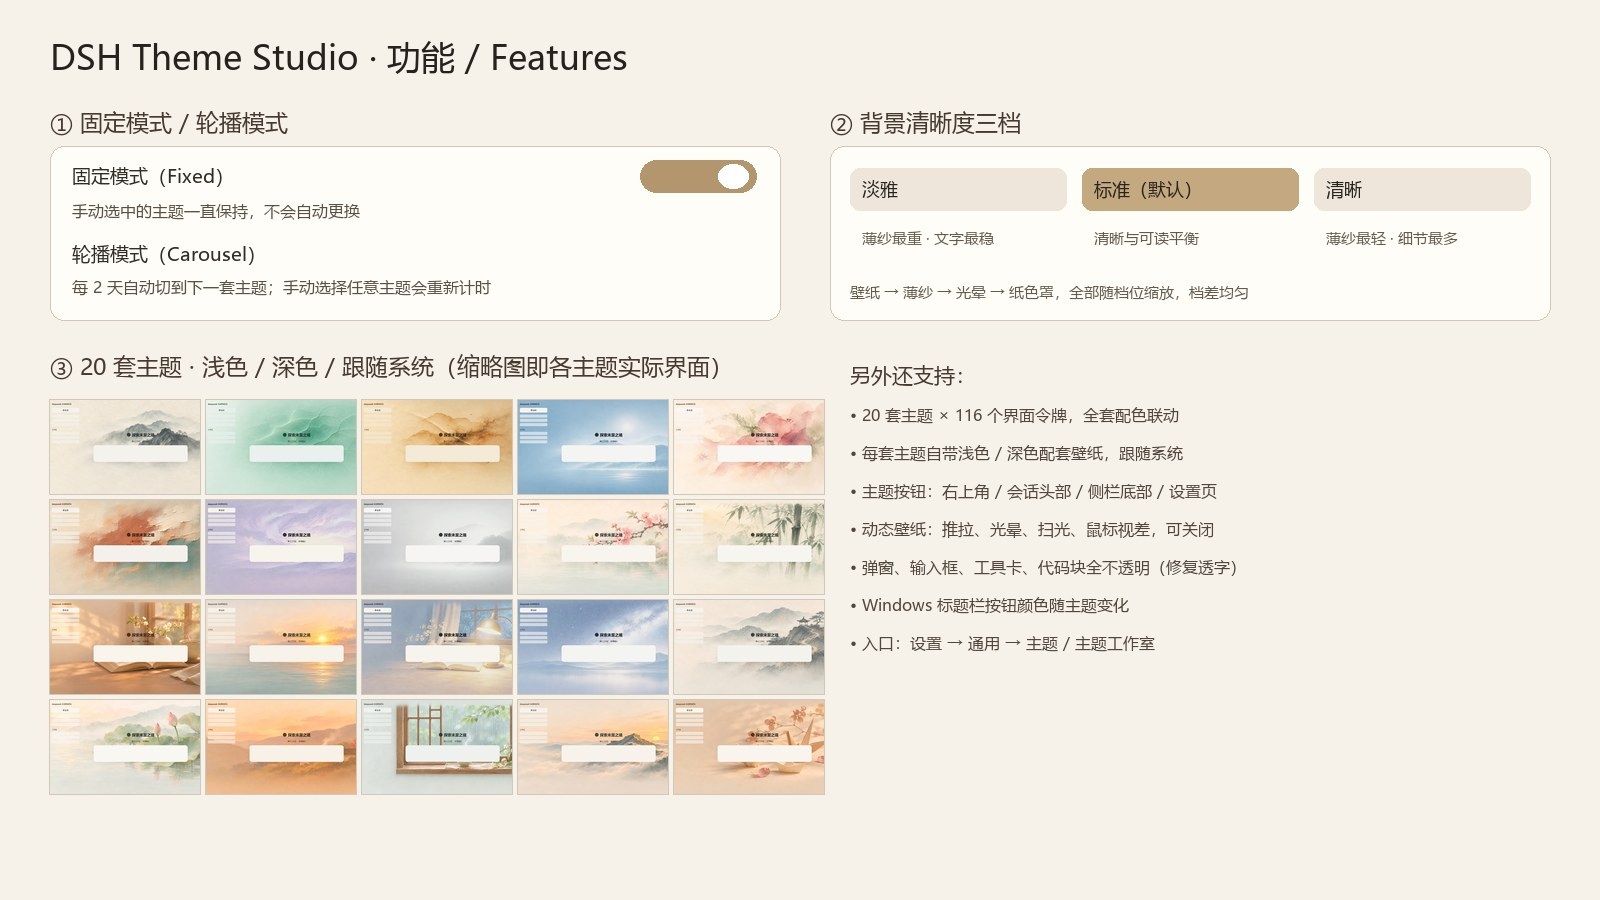
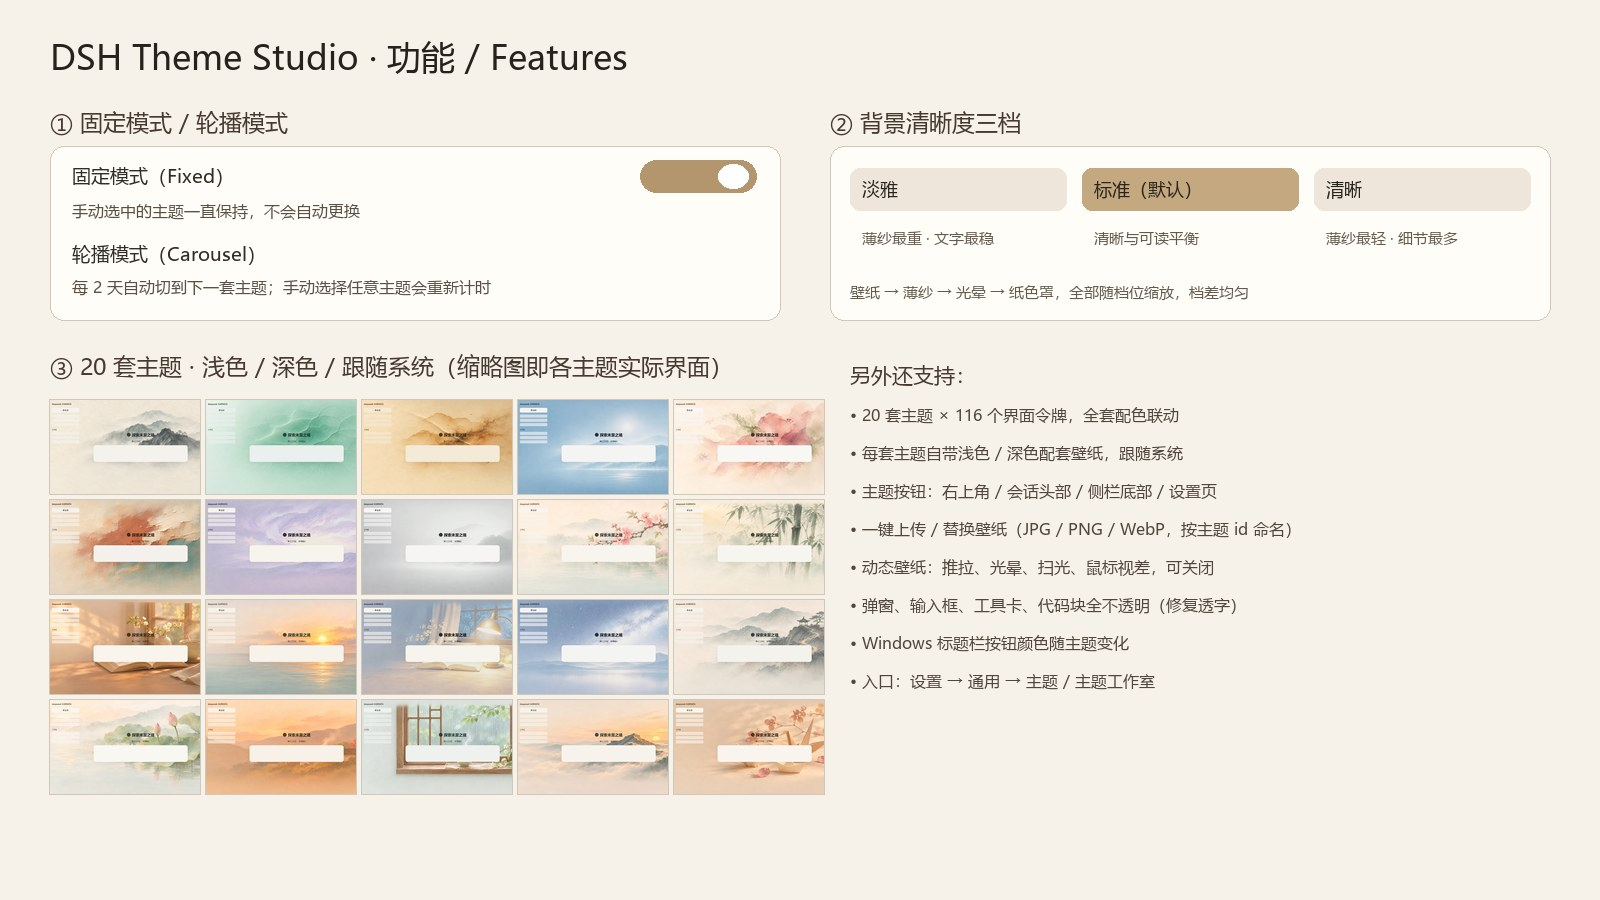
feat: 1.4.0 wallpaper detection copy + upload/replace wallpapers

Changed region(s): [[0.5312, 0.56, 0.8125, 0.7778]]

diff --git a/client.js b/client.js
@@ -84,7 +84,7 @@ window.__ModuleLoader__.load({
       const STORAGE_KEY = 'dsh-theme-studio/v5';
       const WALLPAPER_THEMES = 6;
       /** Reported by the diagnostics UI probe so a loaded build is identifiable. */
-      const BUILD = '1.3.9+panel-buttons';
+      const BUILD = '1.4.0+wallpaper-upload';
 
     /* ------------------------------------------------------------------ *
      * Colour helpers
@@ -1189,7 +1189,10 @@ html[data-theme-studio="${family.id}"] body[data-ds-dark-theme] {
 .ts-foot { display: flex; flex-direction: column; gap: 8px; padding-top: 12px; border-top: 0.5px solid var(--dsw-alias-border-l1); font-size: 11px; line-height: 17px; color: var(--dsw-alias-label-tertiary); }
 .ts-path { display: block; padding: 6px 8px; border: 0.5px solid var(--dsw-alias-border-l1); border-radius: 8px; background: var(--dsw-alias-bg-layer-2); color: var(--dsw-alias-label-secondary); font-family: var(--ds-font-family-code); font-size: 11px; line-height: 16px; word-break: break-all; }
 .ts-footRow { display: flex; align-items: center; gap: 8px; flex-wrap: wrap; }
-.ts-linkBtn { border: 0; background: transparent; padding: 0; color: var(--dsw-alias-brand-primary); font: inherit; font-size: 11px; cursor: pointer; text-decoration: underline; text-underline-offset: 2px; }
+.ts-linkBtn:hover { background: var(--dsw-alias-interactive-bg-hover); color: var(--dsw-alias-label-primary); border-color: var(--dsw-alias-border-l3); }
+.ts-uploadBtn { color: var(--dsw-alias-label-primary); font-weight: 500; }
+.ts-uploadNote { font-size: 11px; line-height: 16px; color: var(--dsw-alias-brand-primary); }
+.ts-linkBtn { display: inline-flex; align-items: center; gap: 5px; border: 0.5px solid var(--dsw-alias-border-l2); border-radius: 999px; padding: 3px 10px; background: var(--dsw-alias-bg-layer-2); color: var(--dsw-alias-label-secondary); font: inherit; font-size: 11px; line-height: 16px; cursor: pointer; text-decoration: none; transition: background 0.15s ease, color 0.15s ease, border-color 0.15s ease; }
 .ts-badge { display: inline-flex; align-items: center; padding: 1px 7px; border-radius: 999px; background: var(--dsw-alias-bg-layer-3); border: 0.5px solid var(--dsw-alias-border-l1); color: var(--dsw-alias-label-secondary); font-size: 10px; line-height: 16px; }
 .ts-quick { display: flex; flex-direction: column; gap: 8px; padding: 14px 0; border-bottom: 0.5px solid var(--dsw-alias-border-l2); }
 .ts-quickHead { display: flex; align-items: baseline; gap: 10px; flex-wrap: wrap; }
@@ -1417,11 +1420,17 @@ ${PAGE_CSS}`;
         off: '关',
         schemeLight: '当前：浅色',
         schemeDark: '当前：深色',
-        wallpaperFound: '已检测到 {n} 张壁纸',
+        wallpaperFound: '已检测到 {n} 套主题壁纸',
+        wallpaperFoundHint: '扫描壁纸目录得到的可用背景图数量；点「刷新壁纸」可重新扫描',
         wallpaperNone: '尚未放入壁纸，正在使用内置渐变艺术',
         pathTitle: '壁纸目录',
-        pathHint: '把 GPT 生成的图片命名为 <主题 id>.jpg（或 .png / .webp）放入该目录，刷新后即可生效。',
-        refresh: '重新检测',
+        pathHint: '支持自定义背景图：把图片命名为 <主题 id>.jpg / .png / .webp（配套图用 <id>-dark / <id>-light）放进壁纸目录，或点「上传/替换壁纸」。',
+        refresh: '刷新壁纸',
+        uploadWallpaper: '上传 / 替换壁纸',
+        uploadBadName: '文件名需带主题 id，例如 ink-mist.jpg 或 ink-mist-dark.jpg',
+        uploadTooLarge: '图片过大：上限 30 MB',
+        uploadOk: '已更新 {name}，正在刷新预览…',
+        uploadFail: '上传失败：{msg}',
         footerNote: '主题只覆盖颜色与材质令牌，不改动任何功能；关闭本页或恢复默认即可回到原生外观。',
       },
       en: {
@@ -1455,11 +1464,17 @@ ${PAGE_CSS}`;
         off: 'Off',
         schemeLight: 'Now: light',
         schemeDark: 'Now: dark',
-        wallpaperFound: '{n} wallpaper(s) detected',
+        wallpaperFound: '{n} theme wallpaper(s) detected',
+        wallpaperFoundHint: 'Number of background images found by scanning the wallpaper folder; click Refresh to rescan',
         wallpaperNone: 'No wallpaper yet — using the built-in gradient art',
         pathTitle: 'Wallpaper folder',
-        pathHint: 'Name GPT output <theme-id>.jpg (or .png / .webp), drop it in this folder, then refresh.',
-        refresh: 'Rescan',
+        pathHint: 'Custom wallpapers: name the image <theme-id>.jpg / .png / .webp (companions <id>-dark / <id>-light), drop it in this folder, or click Upload / Replace.',
+        refresh: 'Refresh wallpapers',
+        uploadWallpaper: 'Upload / replace wallpaper',
+        uploadBadName: 'The file name needs a theme id, e.g. ink-mist.jpg or ink-mist-dark.jpg',
+        uploadTooLarge: 'Image is too large (max 30 MB)',
+        uploadOk: 'Updated {name}, refreshing preview…',
+        uploadFail: 'Upload failed: {msg}',
         footerNote: 'Themes only override color and material tokens; every feature stays untouched. Restore the default look to go back.',
       },
     };
@@ -1864,6 +1879,41 @@ ${PAGE_CSS}`;
       const t = (key) => UI.t(key);
       const families = state.families;
       const count = state.wallpaperCount;
+      const [uploadNote, setUploadNote] = React.useState('');
+      const pickWallpaper = () => {
+        if (typeof document === 'undefined') return;
+        const input = document.getElementById('ts-wallpaper-upload');
+        if (input) input.click();
+      };
+      const onWallpaperPicked = async (event) => {
+        const input = event && event.target;
+        const file = input && input.files && input.files[0];
+        if (!file) return;
+        const name = String(file.name || '').toLowerCase();
+        if (!/^[a-z0-9][a-z0-9-]{0,60}(?:-(?:dark|light))?\.(?:jpg|jpeg|png|webp|avif)$/.test(name)) {
+          setUploadNote(t('uploadBadName'));
+          return;
+        }
+        if (file.size > 30 * 1024 * 1024) {
+          setUploadNote(t('uploadTooLarge'));
+          return;
+        }
+        try {
+          const response = await fetch(`${ROUTE}/upload?name=${encodeURIComponent(name)}`, {
+            method: 'POST',
+            headers: { 'content-type': file.type || 'image/jpeg' },
+            body: file,
+          });
+          const data = await response.json().catch(() => ({}));
+          if (!response.ok) throw new Error(data && data.error ? data.error : 'HTTP ' + response.status);
+          setUploadNote(t('uploadOk').replace('{name}', name));
+          UI.actions.refreshWallpapers();
+        } catch (error) {
+          setUploadNote(t('uploadFail').replace('{msg}', String(error && error.message ? error.message : error)));
+        } finally {
+          if (input) input.value = '';
+        }
+      };
       return h(
         'div',
         { className: 'ts-page' },
@@ -1930,11 +1980,20 @@ ${PAGE_CSS}`;
           h(
             'div',
             { className: 'ts-footRow' },
-            h('span', { className: 'ts-badge' }, count > 0 ? t('wallpaperFound').replace('{n}', String(count)) : t('wallpaperNone')),
+            h('span', { className: 'ts-badge', title: t('wallpaperFoundHint') }, count > 0 ? t('wallpaperFound').replace('{n}', String(count)) : t('wallpaperNone')),
             state.manifest && state.manifest.directory ? h('button', { type: 'button', className: 'ts-linkBtn', onClick: () => UI.actions.refreshWallpapers() }, t('refresh')) : null,
+            state.manifest && state.manifest.directory ? h('button', { type: 'button', className: 'ts-linkBtn ts-uploadBtn', onClick: pickWallpaper }, t('uploadWallpaper')) : null,
+            h('input', {
+              id: 'ts-wallpaper-upload',
+              type: 'file',
+              accept: 'image/jpeg,image/png,image/webp,image/avif',
+              style: { display: 'none' },
+              onChange: onWallpaperPicked,
+            }),
           ),
-          state.manifest && state.manifest.directory ? h('span', { className: 'ts-path' }, state.manifest.directory) : null,
+          state.manifest && state.manifest.directory ? h('span', { className: 'ts-path', title: t('pathTitle') }, state.manifest.directory) : null,
           h('div', null, t('pathHint')),
+          uploadNote ? h('div', { className: 'ts-uploadNote' }, uploadNote) : null,
           h('div', null, t('footerNote')),
         ),
       );
@@ -2492,6 +2551,9 @@ ${PAGE_CSS}`;
           workspaceChip: workspaceChipProbe(),
           themeNeighbors: themeNeighborProbe(),
           themeHead: probeStyle('.ts-headBtn'),
+          uploadButtonText: (() => { const node = document.querySelector('.ts-uploadBtn'); return node ? String(node.textContent || '').trim() : null; })(),
+          wallpaperBadgeText: (() => { const node = document.querySelector('.ts-badge'); return node ? String(node.textContent || '').trim() : null; })(),
+          wallpaperHintText: (() => { const node = document.querySelector('.ts-foot'); return node ? String(node.innerText || '').replace(/\s+/g, ' ').slice(0, 240) : null; })(),
           sidebarCandidates: [...document.querySelectorAll('*')].filter((node) => typeof node.className === 'string' && /sidebar/i.test(node.className)).slice(0, 6).map((node) => { const style = getComputedStyle(node); const rect = node.getBoundingClientRect(); return { cls: String(node.className).slice(0, 90), bg: style.backgroundColor, w: Math.round(rect.width), h: Math.round(rect.height), x: Math.round(rect.x) }; }),
           mainSurface: (() => { const node = document.querySelector('[data-conversation-root], [class*="scrollBody"], [class*="centerCol"], main'); if (!node) return null; const style = getComputedStyle(node); return { cls: String(node.className || '').slice(0, 90), bg: style.backgroundColor }; })(),
           themeFab: probeStyle('.ts-fabBtn'),

diff --git a/index.js b/index.js
@@ -24,7 +24,7 @@
  * @module dsh-theme-studio
  */
 import { existsSync } from 'node:fs';
-import { readFile, readdir, stat, writeFile } from 'node:fs/promises';
+import { mkdir, readFile, readdir, stat, writeFile } from 'node:fs/promises';
 import { dirname, extname, join, normalize, resolve, sep } from 'node:path';
 import { fileURLToPath } from 'node:url';
 
@@ -34,6 +34,10 @@ const SENTINEL = join(HERE, 'enable-diagnostics');
 const DIAG_FILE = join(HERE, 'theme-studio-diagnostics.json');
 const ROUTE = '/theme-studio';
 const MAX_DIAG_BYTES = 2 * 1024 * 1024;
+const MAX_WALLPAPER_BYTES = 30 * 1024 * 1024;
+
+/** Custom wallpaper file name: `<theme-id>[-dark|-light].(jpg|png|webp|avif)`. */
+const WALLPAPER_NAME_RE = /^[a-z0-9][a-z0-9-]{0,60}(?:-(?:dark|light))?\.(?:jpg|jpeg|png|webp|avif)$/;
 
 /** Supported wallpaper media types. */
 const MEDIA_TYPES = new Map([
@@ -234,6 +238,80 @@ async function handleDiag(req, res) {
 }
 
 /**
+ * Save one user-supplied wallpaper. Exported so the upload route can be unit
+ * tested without a live host.
+ * @param {string} name - requested file name, `<theme-id>[-dark|-light].ext`.
+ * @param {Buffer} bytes - image bytes.
+ * @param {string} [directory] - target directory (defaults to the plugin's).
+ * @returns {Promise<{ok: true, name: string, bytes: number}>} the saved file.
+ */
+export async function saveWallpaper(name, bytes, directory = WALLPAPER_DIR) {
+  const fileName = String(name || '').trim().toLowerCase();
+  if (!WALLPAPER_NAME_RE.test(fileName)) {
+    throw Object.assign(new Error('file name must look like <theme-id>.jpg'), { status: 400 });
+  }
+  if (!bytes || bytes.byteLength === 0) {
+    throw Object.assign(new Error('empty file'), { status: 400 });
+  }
+  if (bytes.byteLength > MAX_WALLPAPER_BYTES) {
+    throw Object.assign(new Error('image too large (max 30 MB)'), { status: 413 });
+  }
+  await mkdir(directory, { recursive: true });
+  const target = resolve(normalize(join(directory, fileName)));
+  if (target !== directory && !target.startsWith(directory + sep)) {
+    throw Object.assign(new Error('invalid path'), { status: 400 });
+  }
+  await writeFile(target, bytes);
+  return { ok: true, name: fileName, bytes: bytes.byteLength };
+}
+
+/**
+ * User wallpaper upload: POST /theme-studio/upload?name=<theme-id>.jpg
+ * Body is the raw image bytes. Overwrites an existing file with that name.
+ * @param {import('node:http').IncomingMessage} req - request.
+ * @param {import('node:http').ServerResponse} res - response.
+ */
+async function handleUpload(req, res) {
+  try {
+    if (req.method !== 'POST') {
+      res.writeHead(405, { allow: 'POST', 'content-type': 'text/plain; charset=utf-8' });
+      res.end('POST only');
+      return;
+    }
+    const url = new URL(req.url || '/', 'http://local');
+    const name = url.searchParams.get('name') || '';
+    const type = String(req.headers['content-type'] || '');
+    if (!/^image\//.test(type)) {
+      throw Object.assign(new Error('content-type must be an image'), { status: 415 });
+    }
+    const chunks = [];
+    let length = 0;
+    for await (const chunk of req) {
+      length += chunk.length;
+      if (length > MAX_WALLPAPER_BYTES) {
+        throw Object.assign(new Error('image too large (max 30 MB)'), { status: 413 });
+      }
+      chunks.push(chunk);
+    }
+    const result = await saveWallpaper(name, Buffer.concat(chunks));
+    res.writeHead(200, {
+      'content-type': 'application/json; charset=utf-8',
+      'cache-control': 'no-store',
+      'x-content-type-options': 'nosniff',
+    });
+    res.end(JSON.stringify(result));
+  } catch (error) {
+    const status = error && error.status ? error.status : 400;
+    try {
+      res.writeHead(status, { 'content-type': 'application/json; charset=utf-8', 'cache-control': 'no-store' });
+      res.end(JSON.stringify({ ok: false, error: String(error && error.message ? error.message : error) }));
+    } catch {
+      /* socket may already be gone */
+    }
+  }
+}
+
+/**
  * Register the asset and diagnostics routes.
  * @param {import('@deepseek-ai/cordis').Context} ctx - owning plugin context.
  */
@@ -245,5 +323,9 @@ export function apply(ctx) {
   ctx.effect(
     () => ctx.webServer.register({ kind: 'exact', path: `${ROUTE}/diag`, handler: handleDiag }),
     'theme-studio: diagnostics sink',
+  );
+  ctx.effect(
+    () => ctx.webServer.register({ kind: 'exact', path: `${ROUTE}/upload`, handler: handleUpload }),
+    'theme-studio: wallpaper upload',
   );
 }

diff --git a/README.md b/README.md
@@ -55,7 +55,8 @@ Try the [live demo](https://ruohan0713.github.io/dsh-theme-studio/), download th
 - **每套 116 个界面令牌**：背景、侧栏、卡片、输入框、代码块、弹窗、滚动条、状态色一整套联动，不是"只换一张壁纸"。
 - **可读性优先的界面层**：弹窗、输入框、工具/交付卡、diff、代码块均为不透明纸色，不会透出背后聊天内容（见 `assets/screenshots/surface-bleed-*.png`）。
 - **Windows 标题栏一体化**：原生窗口按钮区透明化，符号色跟随主题文字色，与主题标题栏无缝衔接。
-- **壁纸**：20 张主图 + 20 张浅/深配套图由我使用 GPT 生成；代码、主题定义与配色为原创，MIT 许可。
+- **自定义壁纸**：内置 20 套主题壁纸；可在主题工作室一键上传/替换成你自己的图片（JPG / PNG / WebP / AVIF，按主题 id 命名），支持 `<id>-dark` / `<id>-light` 配套图，随时刷新或恢复默认。
+- **壁纸检测与上传**：主题工作室会扫描壁纸目录并显示检测到的数量；点「刷新壁纸」重新扫描，点「上传 / 替换壁纸」直接替换对应主题背景。
 
 ### 背景清晰度对比
 

diff --git a/CHANGELOG.md b/CHANGELOG.md
@@ -1,5 +1,12 @@
 # Changelog
 
+## 1.4.0 — 2026-11-13
+
+- 壁纸检测说明重做：不再出现任何生图来源描述；检测数 = 扫描壁纸目录得到的可用背景图数量。
+- 新增「上传 / 替换壁纸」：JPG / PNG / WebP / AVIF，按主题 id 命名，上限 30 MB，上传后自动刷新。
+- 宿主上传路由：文件名白名单、路径穿越拦截、content-type 校验、大小限制；客户端/宿主测试通过。
+- 修复热加载中间态导致的按钮显示 raw locale key（现在是「上传 / 替换壁纸」）。
+
 ## 1.3.9 — 2026-11-13
 
 - 主题面板「固定/轮播」与「清晰度」重做为分段按钮：始终可见边框和底色、hover、选中品牌填充 + 高对比文字、focus 环。
@@ -54,7 +61,7 @@
 
 ## 1.3.0 — 2026-11-12
 
-- 第二批 12 套 GPT 壁纸接入，主题 14 → **20 套**；自动派生浅/深配套图；重出全部预览。
+- 第二批 12 套壁纸接入，主题 14 → **20 套**；自动派生浅/深配套图；重出全部预览。
 
 ## 1.2.1 — 2026-11-12
 
